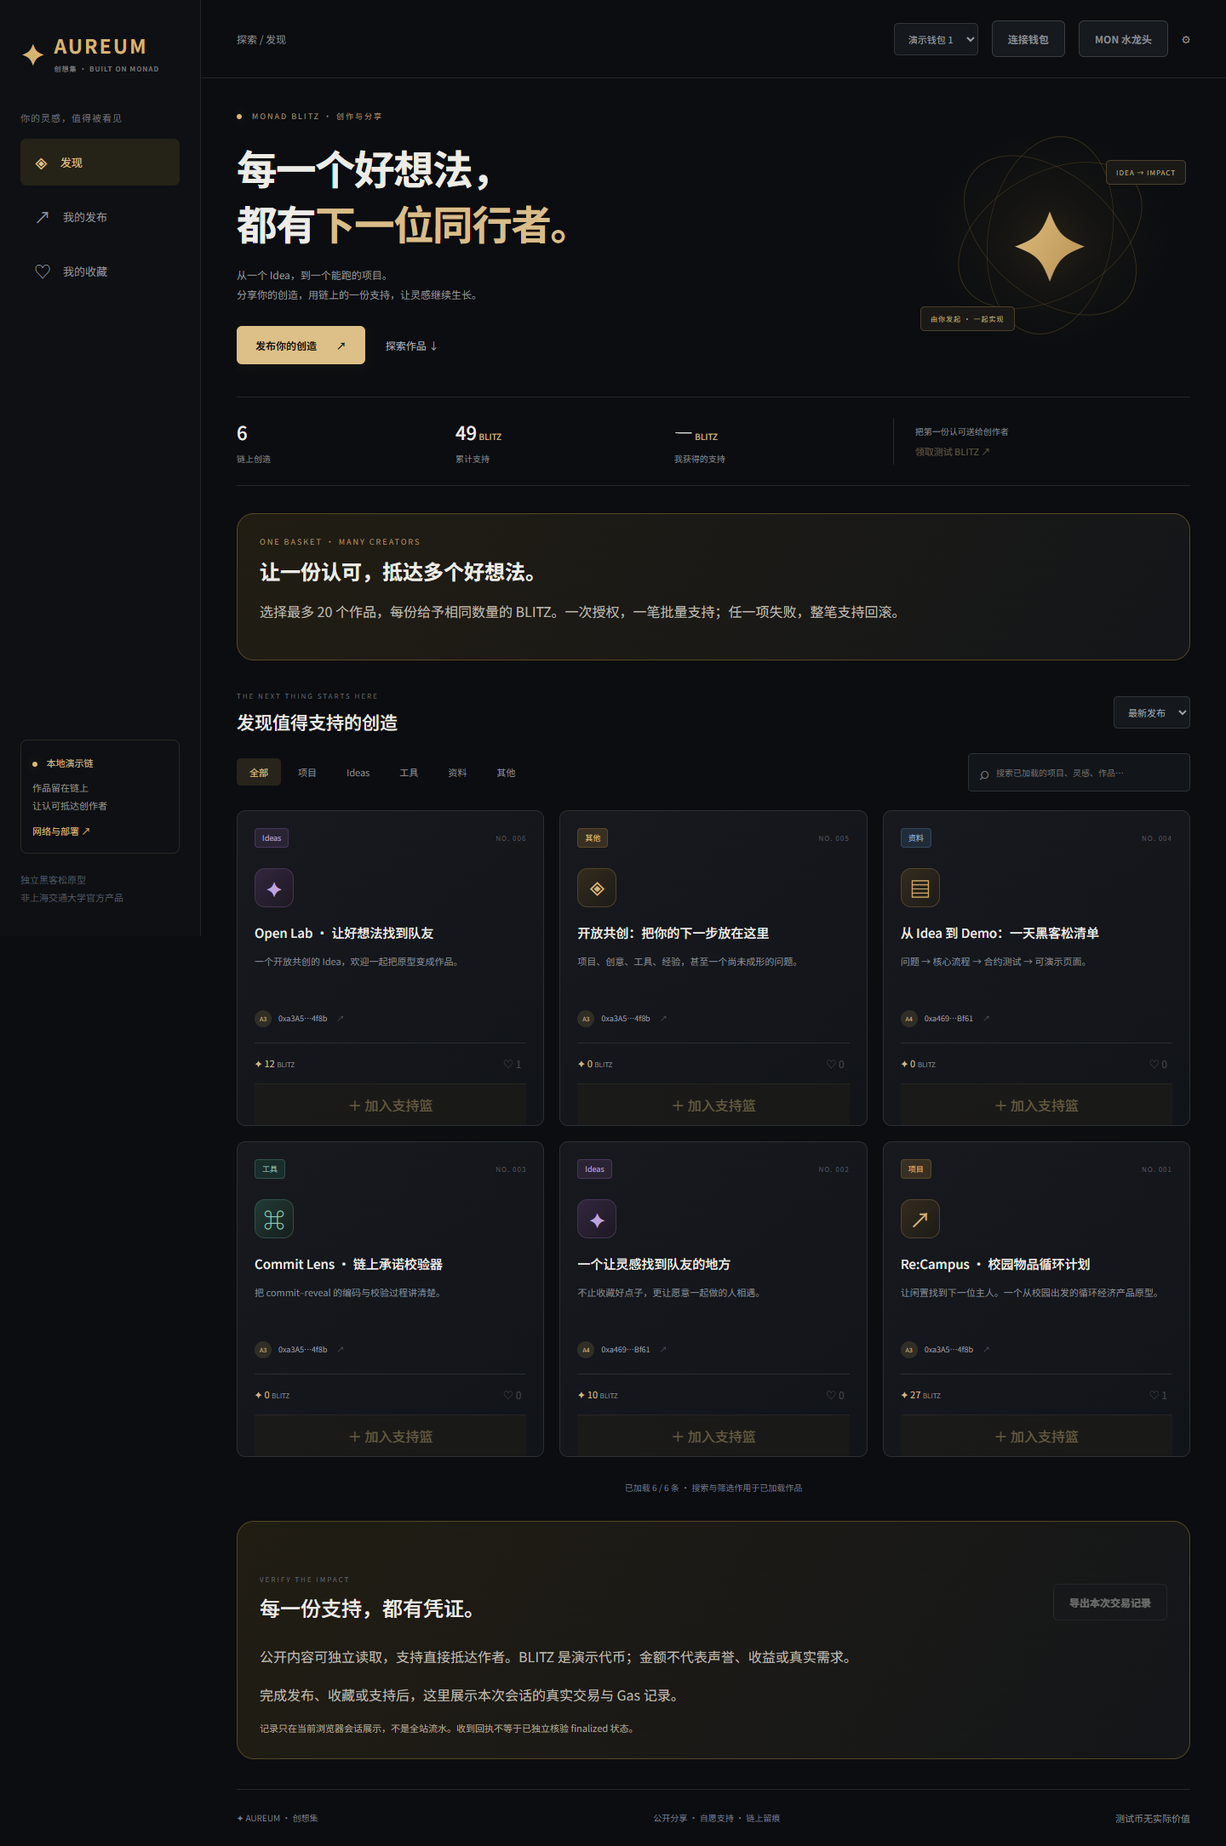
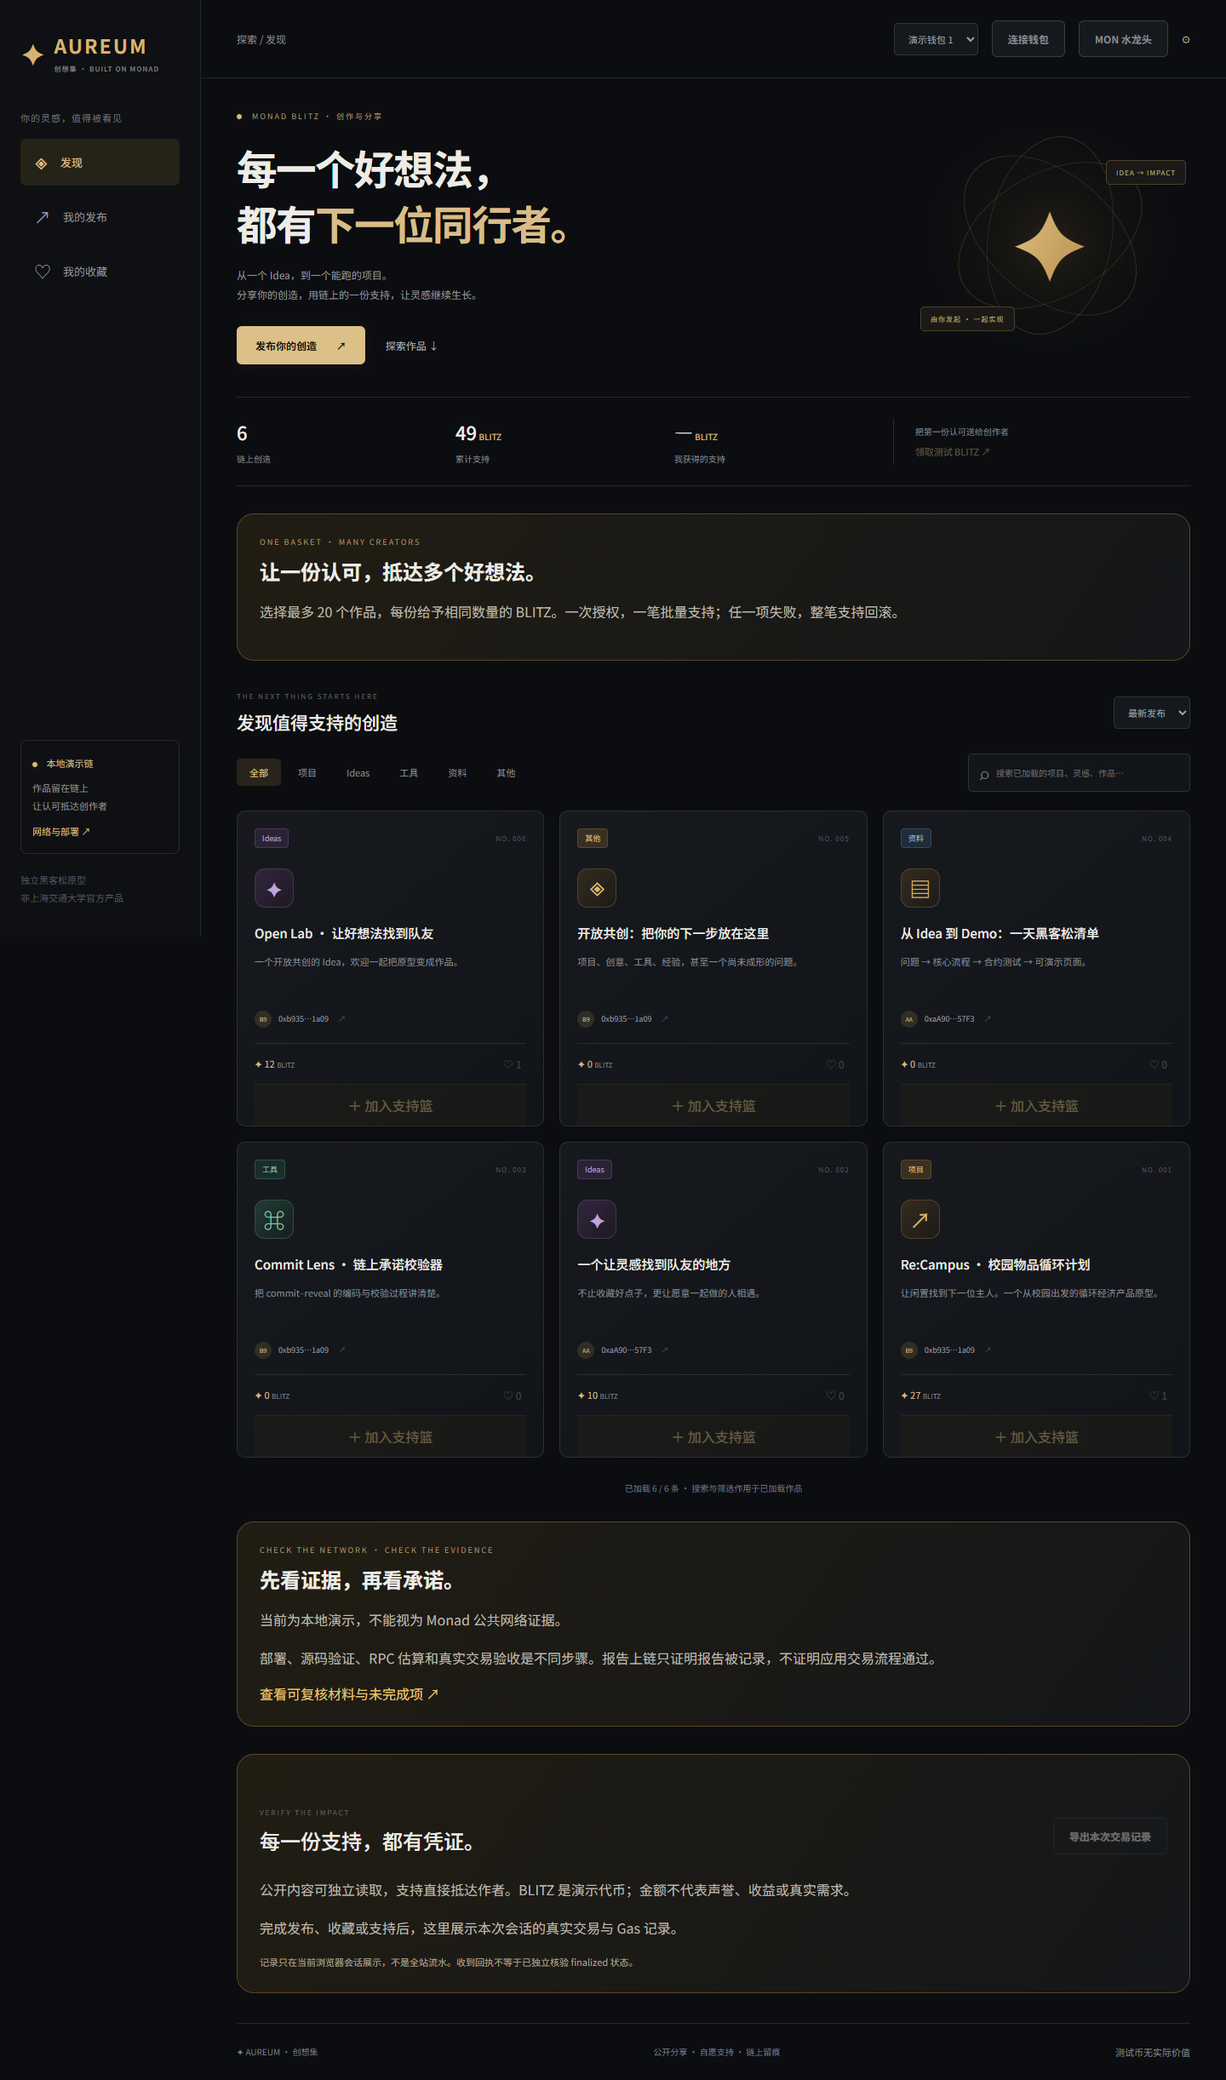
Expose public network evidence and validate real transaction receipts

diff --git a/components/CreationHubApp.tsx b/components/CreationHubApp.tsx
@@ -6,6 +6,7 @@ import initial from '../web/hub-deployment.json';
 import {injected,send,short,errorText} from '../web/chain';
 import {useWalletDiscovery,type DiscoveredWallet} from '../web/wallet-discovery';
 import {FaucetPanel,MON_RPC} from '../web/faucet';
+import {NetworkEvidencePanel} from './NetworkEvidencePanel';
 import {PublishGasPreview} from './PublishGasPreview';
 import {TransactionEvidencePanel,type TransactionEvidence} from './TransactionEvidencePanel';
 import '../web/hub.css';
@@ -135,7 +136,7 @@ export default function App(){
  <div className="cards">{visible.map(c=><article className={'creation-card type-'+c.category} key={String(c.id)}><div className="card-top"><span className="category-tag">{categories[c.category]}</span><span className="card-id">NO. {String(c.id+1n).padStart(3,'0')}</span></div><button className="card-open" aria-label={'查看 '+c.title} onClick={()=>setSelected(c)}><div className="card-symbol">{symbols[c.category]}</div><h3>{c.title}</h3><p>{c.summary}</p></button><button className="author" onClick={()=>{setView('发现');setAuthor(c.author);}}><span className="avatar">{c.author.slice(2,4).toUpperCase()}</span>{short(c.author)}<span>↗</span></button><div className="card-bottom"><span>✦ {fmt(c.support)} <small>BLITZ</small>{c.archived&&<small> · 已归档</small>}</span><button aria-label={'收藏 '+c.title} className={saved.has(String(c.id))?'is-saved':''} disabled={!signer||busy||!ready} onClick={()=>run('更新收藏',()=>bookmark(c))}>{saved.has(String(c.id))?'♥':'♡'} {String(c.saves)}</button></div><button className="basket-toggle" disabled={!signer||busy||!ready||!batchAvailable||c.archived||c.author.toLowerCase()===account.toLowerCase()||(!basket.some(x=>x.id===c.id)&&basket.length>=20)} onClick={()=>toggleBasket(c)}>{basket.some(x=>x.id===c.id)?"✓ 已加入支持篮":"＋ 加入支持篮"}</button></article>)}</div>
  {!visible.length&&(view==='发现'||account)&&<div className="empty"><span>✦</span><h3>{ready?'这里还没有匹配的创造':'等待连接链上作品库'}</h3><p>{ready?'换个关键词，或成为第一个发布者。':'无需登录即可浏览；发布、收藏和支持需要钱包确认。'}</p></div>}
  <div className="load-more"><span>已加载 {items.length} / {total} 条 · 搜索与筛选作用于已加载作品</span>{items.length<total&&<button className="button outline" disabled={busy} onClick={()=>setLimit(n=>n+20)}>加载更多作品</button>}</div></section>
- <TransactionEvidencePanel records={evidence}/><footer><span>✦ AUREUM · 创想集</span><span>公开分享 · 自愿支持 · 链上留痕</span><small>测试币无实际价值</small></footer></main></div>
+ <NetworkEvidencePanel chainId={cfg.chainId} token={cfg.token} hub={cfg.hub}/><TransactionEvidencePanel records={evidence}/><footer><span>✦ AUREUM · 创想集</span><span>公开分享 · 自愿支持 · 链上留痕</span><small>测试币无实际价值</small></footer></main></div>
  {selected&&<div className="modal-backdrop" onClick={()=>setSelected(null)}><section className="modal detail" role="dialog" aria-modal="true" aria-label="作品详情" onClick={e=>e.stopPropagation()}><button className="close" aria-label="关闭详情" onClick={()=>setSelected(null)}>×</button><span className="category-tag">{categories[selected.category]}</span><h2>{selected.title}</h2><p className="detail-summary">{selected.summary}</p><div className="detail-meta">作者 {short(selected.author)} · {new Date(selected.createdAt*1000).toLocaleDateString('zh-CN')} · {selected.archived?'已归档':'公开作品'}</div><div className="body-text">{selected.body}</div>{safeLink(selected.link)&&<a className="external-link" href={safeLink(selected.link)} target="_blank" rel="noreferrer">查看演示 / 仓库 / 附件 ↗</a>}<div className="support-panel"><div><strong>✦ {fmt(selected.support)} BLITZ</strong><small>这份创造获得的支持，直接抵达作者钱包。</small></div><label>支持数量<input aria-label="支持数量" value={tip} onChange={e=>setTip(e.target.value)}/></label><button className="button gold" disabled={!signer||busy||!ready||selected.archived||selected.author.toLowerCase()===account.toLowerCase()} onClick={()=>run('支持作者',()=>support(selected))}>授权并支持</button></div><div className="detail-actions"><button className="button outline" disabled={!signer||busy||!ready} onClick={()=>run('更新收藏',()=>bookmark(selected))}>{saved.has(String(selected.id))?'取消收藏':'收藏作品'}</button><button className="text-button" onClick={()=>{navigator.clipboard.writeText(new URL(import.meta.env.BASE_URL,location.origin).href+'?creation='+selected.id).then(()=>setMessage('作品链接已复制')).catch(()=>setMessage('复制失败，可使用地址栏链接'));}}>复制作品链接</button>{selected.author.toLowerCase()===account.toLowerCase()&&<button className="text-button" disabled={busy||!ready} onClick={()=>run('更新归档',async()=>{await transact(hub(signer!),'setArchived',[selected.id,!selected.archived]);setSelected(normalize(await hub().getCreation(selected.id)));})}>{selected.archived?'恢复公开':'归档作品'}</button>}</div><small>链上内容始终公开；归档只隐藏默认列表，无法抹除链上记录。</small></section></div>}
  {modal&&<div className="modal-backdrop" onClick={()=>!busy&&setModal(null)}><section className="modal" role="dialog" aria-modal="true" aria-label={modal==="publish"?"发布创造":modal==="faucet"?"MON 水龙头":"网络与部署"} onClick={e=>e.stopPropagation()}><button className="close" aria-label="关闭窗口" disabled={busy} onClick={()=>setModal(null)}>×</button>{modal==="faucet"?<FaucetPanel account={account} hasWallet={wallets.length>0} onConnect={connectFaucetWallet}/>:modal==='publish'?<><div className="eyebrow">CREATE SOMETHING THAT MATTERS</div><h2>把你的创造带到链上。</h2><form onSubmit={e=>{e.preventDefault();run('发布创造',publish);}}><label>类型<select value={form.category} onChange={e=>setForm({...form,category:e.target.value})}>{categories.map((c,i)=><option value={i} key={c}>{c}</option>)}</select></label><label>标题 · 最多 120 UTF-8 字节<input required value={form.title} onChange={e=>setForm({...form,title:e.target.value})}/></label><label>一句话介绍 · 最多 480 字节<textarea required rows={2} value={form.summary} onChange={e=>setForm({...form,summary:e.target.value})}/></label><label>正文 · 最多 6,000 字节<textarea required rows={7} value={form.body} onChange={e=>setForm({...form,body:e.target.value})}/></label><label>演示 / GitHub / 附件链接 · 可选<input type="url" placeholder="https://" value={form.link} onChange={e=>setForm({...form,link:e.target.value})}/></label><p className="form-note">只发布你有权分享的内容。正文和链接公开上链；不要提交隐私、密钥或未公开的信息。</p><PublishGasPreview provider={provider} hub={cfg.hub} account={account} chainId={cfg.chainId} args={[form.title,form.summary,form.body,form.link,Number(form.category)]}/><button className="button gold" disabled={busy||!ready}>确认发布到链上 ↗</button></form></>:<><h2>网络与部署</h2><DeploymentGuide wallets={wallets} walletId={walletId} onWallet={id=>{setWalletId(id);setSigner(null);setAccount("");}} onRescan={rescanWallets} cfg={cfg} account={account} busy={busy} onSwitch={()=>{saveConfig({...initial,chainId:10143,rpcUrl:"https://testnet-rpc.monad.xyz",token:"",hub:""});setModal("settings");}} onConnect={()=>run("连接测试网钱包",()=>connect(false))}/><p className="form-note">本地演示链 31337 / Monad 测试网 10143。发布公共站点前，需要同步公共合约配置。</p><textarea aria-label="网络配置" rows={9} value={draft} onChange={e=>setDraft(e.target.value)}/><div className="detail-actions"><button className="button gold" disabled={busy} onClick={()=>run('保存配置',async()=>saveConfig(JSON.parse(draft)))}>保存配置</button><button className="button outline" disabled={busy||!signer} onClick={()=>run('部署平台',deploy)}>钱包部署（2 笔，可续传）</button>{cfg.chainId===10143&&cfg.token&&<button className="button outline" disabled={busy||!signer} onClick={()=>run("部署新版平台",deployLatestHub)}>仅部署新版平台（1 笔，复用测试币）</button>}</div><small>先连接有测试 MON 的钱包。已部署地址会保存，后续拒签可重试续传。</small></>}</section></div>}
  </div>;

diff --git a/components/NetworkEvidencePanel.tsx b/components/NetworkEvidencePanel.tsx
@@ -1,0 +1,10 @@
+import React from 'react';
+import {formatEther} from 'ethers';
+import audit from '../deployment/testnet-audit.json';
+import tokenVerification from '../verification/DemoToken.json';
+import hubVerification from '../verification/CreationHub.json';
+
+export function NetworkEvidencePanel({chainId,token,hub}:{chainId:number;token:string;hub:string}){
+ const matches=chainId===10143&&token.toLowerCase()===audit.token.toLowerCase()&&hub.toLowerCase()===audit.hub.toLowerCase();
+ return <section className="evidence-panel" aria-label="公共网络证据"><div className="eyebrow">CHECK THE NETWORK · CHECK THE EVIDENCE</div><h2>先看证据，再看承诺。</h2>{matches?<><p>当前配置指向已有归档核验的 Monad 测试网旧版合约，支持单笔流程；支持篮需要另行部署新版平台。</p><ul><li>DemoToken：<a target="_blank" rel="noreferrer" href={'https://testnet.monadscan.com/address/'+token+'#code'}>{token}</a> · {tokenVerification.verified===tokenVerification.total?'源码验证成功':'验证待确认'}</li><li>CreationHub：<a target="_blank" rel="noreferrer" href={'https://testnet.monadscan.com/address/'+hub+'#code'}>{hub}</a> · {hubVerification.verified===hubVerification.total?'源码验证成功':'验证待确认'}</li></ul><p>核验快照：区块 {audit.finalizedBlock.number} · {new Date(audit.recordedAt).toLocaleString('zh-CN')}。快照不是实时状态。</p><ul>{audit.rows.map(r=><li key={r.bodyUtf8Bytes}>{r.bodyUtf8Bytes.toLocaleString()} 字节正文：约 {formatEther(BigInt(r.estimatedFeeWei))} MON · Gas 上限 {r.gasLimit}</li>)}</ul><small>以上是当时费率下的 RPC 估算（含 10% Gas 余量），不是成交回执、确认速度或批量节省证明。</small></>:<p>{chainId===31337?'当前为本地演示，不能视为 Monad 公共网络证据。':'当前配置与已归档的核验地址不同，不能沿用旧地址的验证或费用结论。请重新核验。'}</p>}<p>部署、源码验证、RPC 估算和真实交易验收是不同步骤。报告上链只证明报告被记录，不证明应用交易流程通过。</p><a target="_blank" rel="noreferrer" href="https://github.com/determine123/aureum-creation-hub/blob/main/docs/REVIEWER-GUIDE.md">查看可复核材料与未完成项 ↗</a></section>;
+}

diff --git a/docs/MONAD-FIT.md b/docs/MONAD-FIT.md
@@ -1,0 +1,43 @@
+# 创想集为什么选择 Monad：实现与证据边界
+
+## 场景与取舍
+
+创想集服务于“逛一次作品展，支持多个好想法”。作品可以是项目、Ideas、工具或资料。目录公开可读；支持者选择多个作品，使用一个有界批量交易直接向作者付款。平台不托管支持资产，也不抽取支持手续费，用户仍支付链上 Gas。
+
+链上存储与执行的价值在于规则可独立核验：内容绑定发布地址，收藏与支持公开记录，作者归档权限与原子转账由合约约束。它不自动赋予版权、身份真实性或抗刷声誉。Web2 方案更便宜、更容易删改和治理；公开、难以删除以及 Gas 成本是我们明确承担的代价。
+
+## 已落地的适配
+
+使用标准 Solidity、OpenZeppelin 和 ethers，复用 EVM 工具链。Monad 并行执行保持顺序 EVM 语义，兼容性不要求应用发明专有合约。我们的 batch 是一笔交易内部的顺序执行，不能据此声称获得并行加速；totalSupport 与作者统计仍是共享状态，没有并发收益实测。
+
+Monad 按 gas_limit 计费。前端先 estimateGas，再加 10% 余量，而不是随意给出巨大上限；发布前展示正文字节数、费用估算与费用上限。按当前有效费率估算时，费用为 gas_limit × gas_price；实际费率变化和用户修改钱包参数会改变结果。
+
+正文限制 6,000 UTF-8 字节，大附件使用外部公开链接。支持篮上界 20，是当前保守的有界执行设计，不是链级限制或已证明的最优参数。用户可分批支持更多作品，但多批之间不具有整体原子性。
+
+## 已取得的真实网络证据
+
+`deployment/testnet-audit.json` 记录了 Monad 测试网 10143 的 RPC 核验、已部署代码与历史源码匹配、币种精度及平台币关联。两个旧版合约已在 Monadscan 与 Monadvision 验证成功，原始结果在 `verification/`。该平台版本支持单笔支持，没有 supportBatch。
+
+在核验快照、当时 102 MON-gwei 费率下，100/1,000/6,000 字节正文含 10% Gas 余量的 RPC 估算分别约为 0.02682906、0.082885098、0.396391584 MON。原始输入与结果见 `scripts/audit-testnet.mjs` 和 `benchmarks/monad-estimates.json`。这不是实付费用，不包含法币换算，也不能证明比其他链便宜。
+
+本地同起点、同作者三项支持测得 311,733 对 211,408 Gas，约减少 32.18%。它用于验证批处理在这个 EVM 场景的固定开销收益，不能迁移成 Monad 的批量节省比例、确认时间或吞吐结果。
+
+## 补齐成交证据的方法
+
+使用网页钱包签署真实发布、支持交易后，将完整 hash 交给只读取证脚本：
+
+```sh
+npm run capture:testnet -- 0x完整交易哈希
+```
+
+脚本检查链 ID、目标 hub、成功状态、规范区块与 finalized 高度、调用方法及对应事件。成功后生成 `benchmarks/monad-transactions.json`；发布和支持都具备时生成当前 hub 的回执验收结果。它不会签名，不索取私钥，不把未知的提交等待时间作为确认性能记录。
+
+回执验收仍不能替代浏览器验收、多钱包体验、不同作者场景或用户反馈。新版批量 hub 尚需一笔钱包部署交易；原有 BLITZ 可复用，但旧目录、收藏和授权不会自动迁移。
+
+## 当前最值得完成的三步
+
+1. 用已有测试币部署新版 hub，核验与验证新地址，并更新公共配置。
+2. 完成真实发布和不同作者的支持，导入完整交易 hash，重新截图并明确网络。
+3. 邀请实际创作者和支持者试用，记录困惑、任务结果和失败原因；未收集前不宣称用户需求已验证。
+
+参考材料中的 Real Monad 报告评审的是旧提交 `0b24fb0560bf`。报告被记录上链，只证明报告被提交，不能替代应用合约和业务交易证据，也不会自动更新为新代码的评价。

diff --git a/docs/USER-VALIDATION.md b/docs/USER-VALIDATION.md
@@ -1,0 +1,27 @@
+# 用户验证记录模板
+
+状态：尚未收集真实访谈或试用数据。下面是执行模板，不是用户反馈结果；本地自动化测试不能计作真实用户验证。
+
+## 招募与记录
+
+建议邀请创作者和愿意支持作品的读者，允许拒绝或中途退出。不要求受访者提供私钥、助记词或身份材料。访谈可以先使用本地演示，不强迫支付 Gas；记录必须注明使用本地链还是公共测试网、hub 地址与版本。未完成访谈前不要填写人数或正向结论。
+
+每次记录：日期、匿名编号、角色、测试版本/网络、是否需要提示、任务成功/失败、实际用时（若确实计时）、原话及记录者。原话需经同意，避免保存与任务无关的个人信息。
+
+## 任务
+
+1. 不连接钱包，找到一个感兴趣的 Idea，说明它打算解决什么问题。
+2. 如果你愿意支持两个作品，尝试找到支持篮并解释每份金额、总额与 Gas 的区别。旧版公共 hub 不含批量功能，不能将此任务标为公共批量成功。
+3. 查看交易凭证，判断它属于本地链、RPC 估算还是实际公共交易；说明归档是否会删除链上内容。
+
+## 访谈问题
+
+- 最近一次分享或发现独立项目时，你使用了什么平台，遇到了什么实际障碍？
+- 你通常如何表达支持？一次支持多个作者是否发生过？
+- 你是否理解授权与支持是两笔不同交易？哪个环节最困惑？
+- 如果仅为鼓励作品，你是否愿意承担页面展示的 Gas？为什么？
+- 即使没有 BLITZ 奖励，你是否还会使用公开目录或收藏？缺少什么？
+
+## 如何总结
+
+分别记录观察、用户原话与团队推断。记录失败和负面反馈，不以测试币金额推断付费意愿，不把朋友礼貌评价当留存数据。用实际结果决定优先改入口、授权说明或产品方向；没有足够数据时保留“不确定”。

diff --git a/README.md b/README.md
@@ -8,6 +8,14 @@ Real Monad 的四项输入可直接使用 [重新评审填写稿](submission/REA
 
 核心场景是“逛一次作品展，支持多个好想法”：读者发现项目、Ideas 等不同作品后，把最多 20 份加入支持篮，必要时先授权，再用一笔原子交易支持多个作者。这是待真实用户验证的产品假设；测试币支持金额不代表声誉、真实需求或持续收入。
 
+## 公共链证据与评审更新
+
+参考报告评审的是旧提交 `0b24fb0560bf`，不包含之后提交的公共部署与验证证据。评审报告上链不等于应用业务交易通过。请优先核查下面地址和原始报告。
+
+- 页面新增“公共网络证据”，展示匹配当前配置的归档核验、合约验证链接与费用估算；切换网络或地址后不沿用旧结论。
+- 真实发布/支持后执行 `npm run capture:testnet -- 0x完整交易哈希`，只读核验并生成真实回执报告；不接受截断 hash、其他链、其他合约、失败或未 finalized 的交易。事后不能获知的确认耗时保持未知。
+- [Monad 适配说明](docs/MONAD-FIT.md) 区分部署、验证、估算和成交证据；[用户验证模板](docs/USER-VALIDATION.md) 用于后续真实访谈，目前没有用户验证数据。
+
 ## 已核验并验证的 Monad 测试网地址
 
 - DemoToken：[0x96d09DaD56d6ebbD2BB53832DA4fFaAc24f68F65](https://testnet.monadscan.com/address/0x96d09DaD56d6ebbD2BB53832DA4fFaAc24f68F65#code)。
